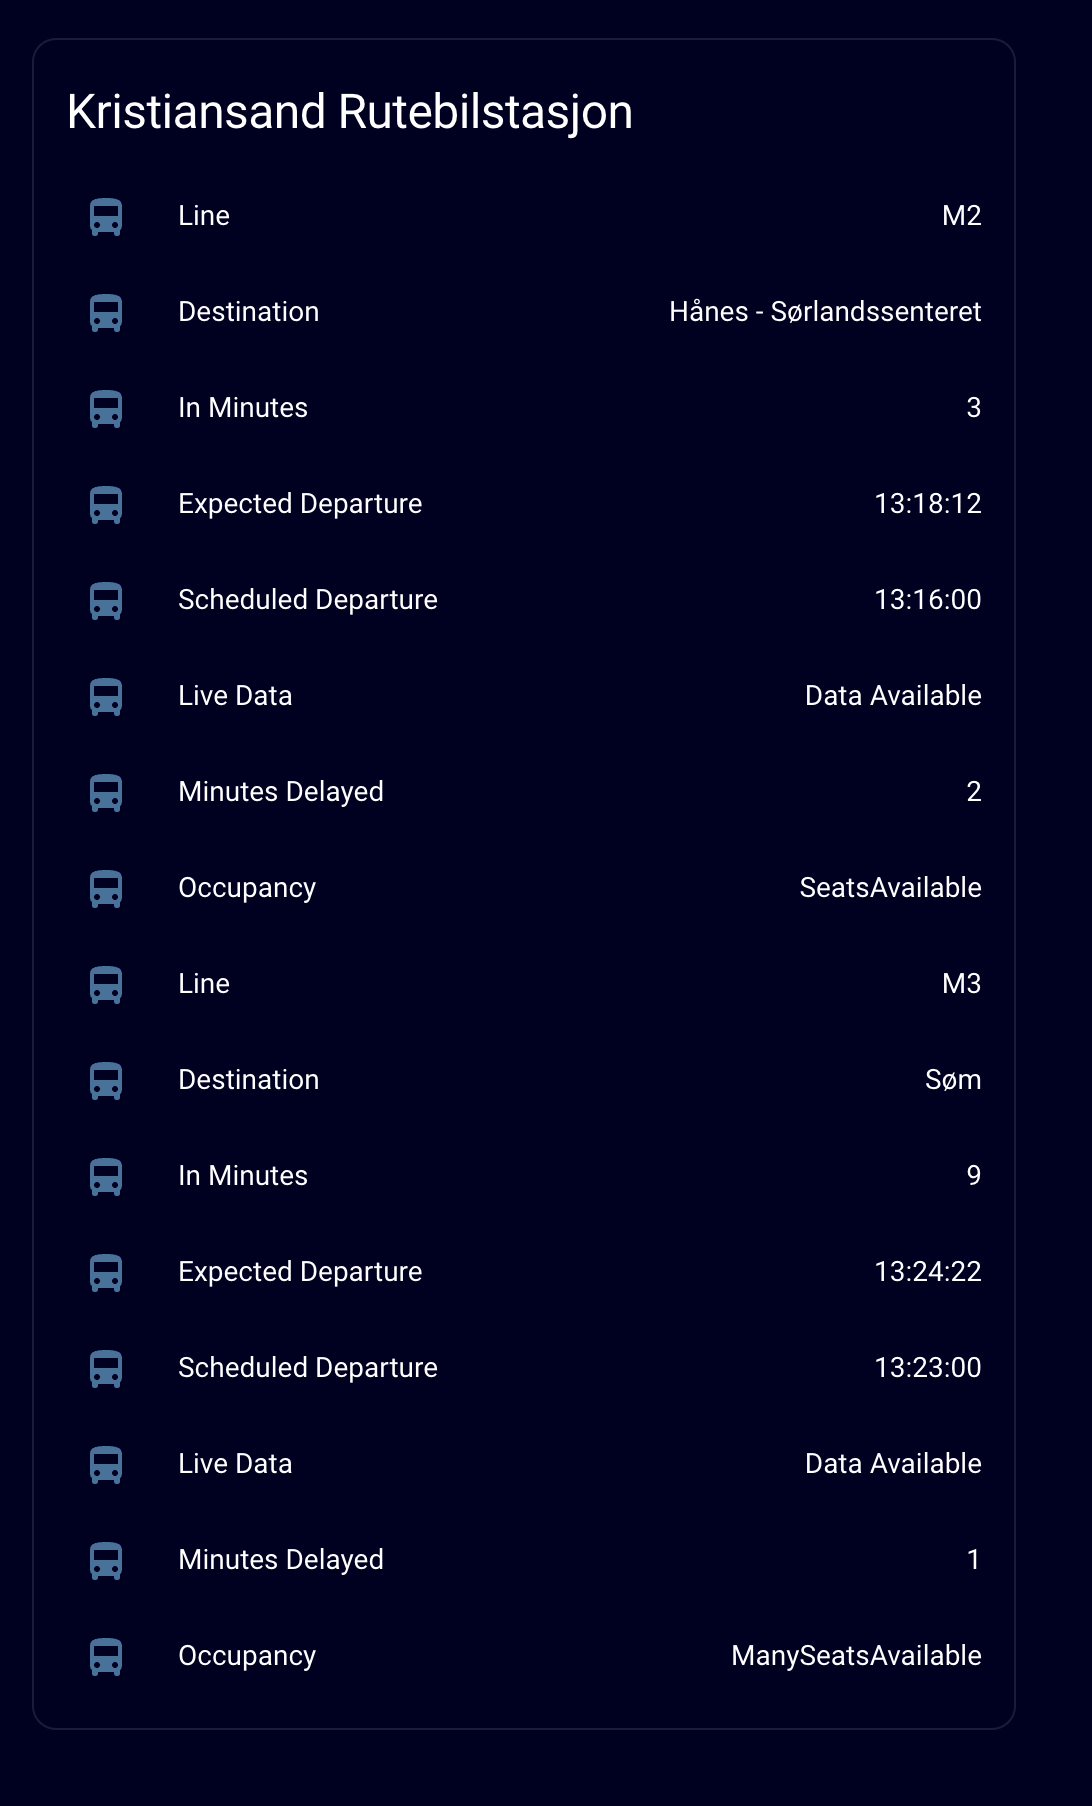
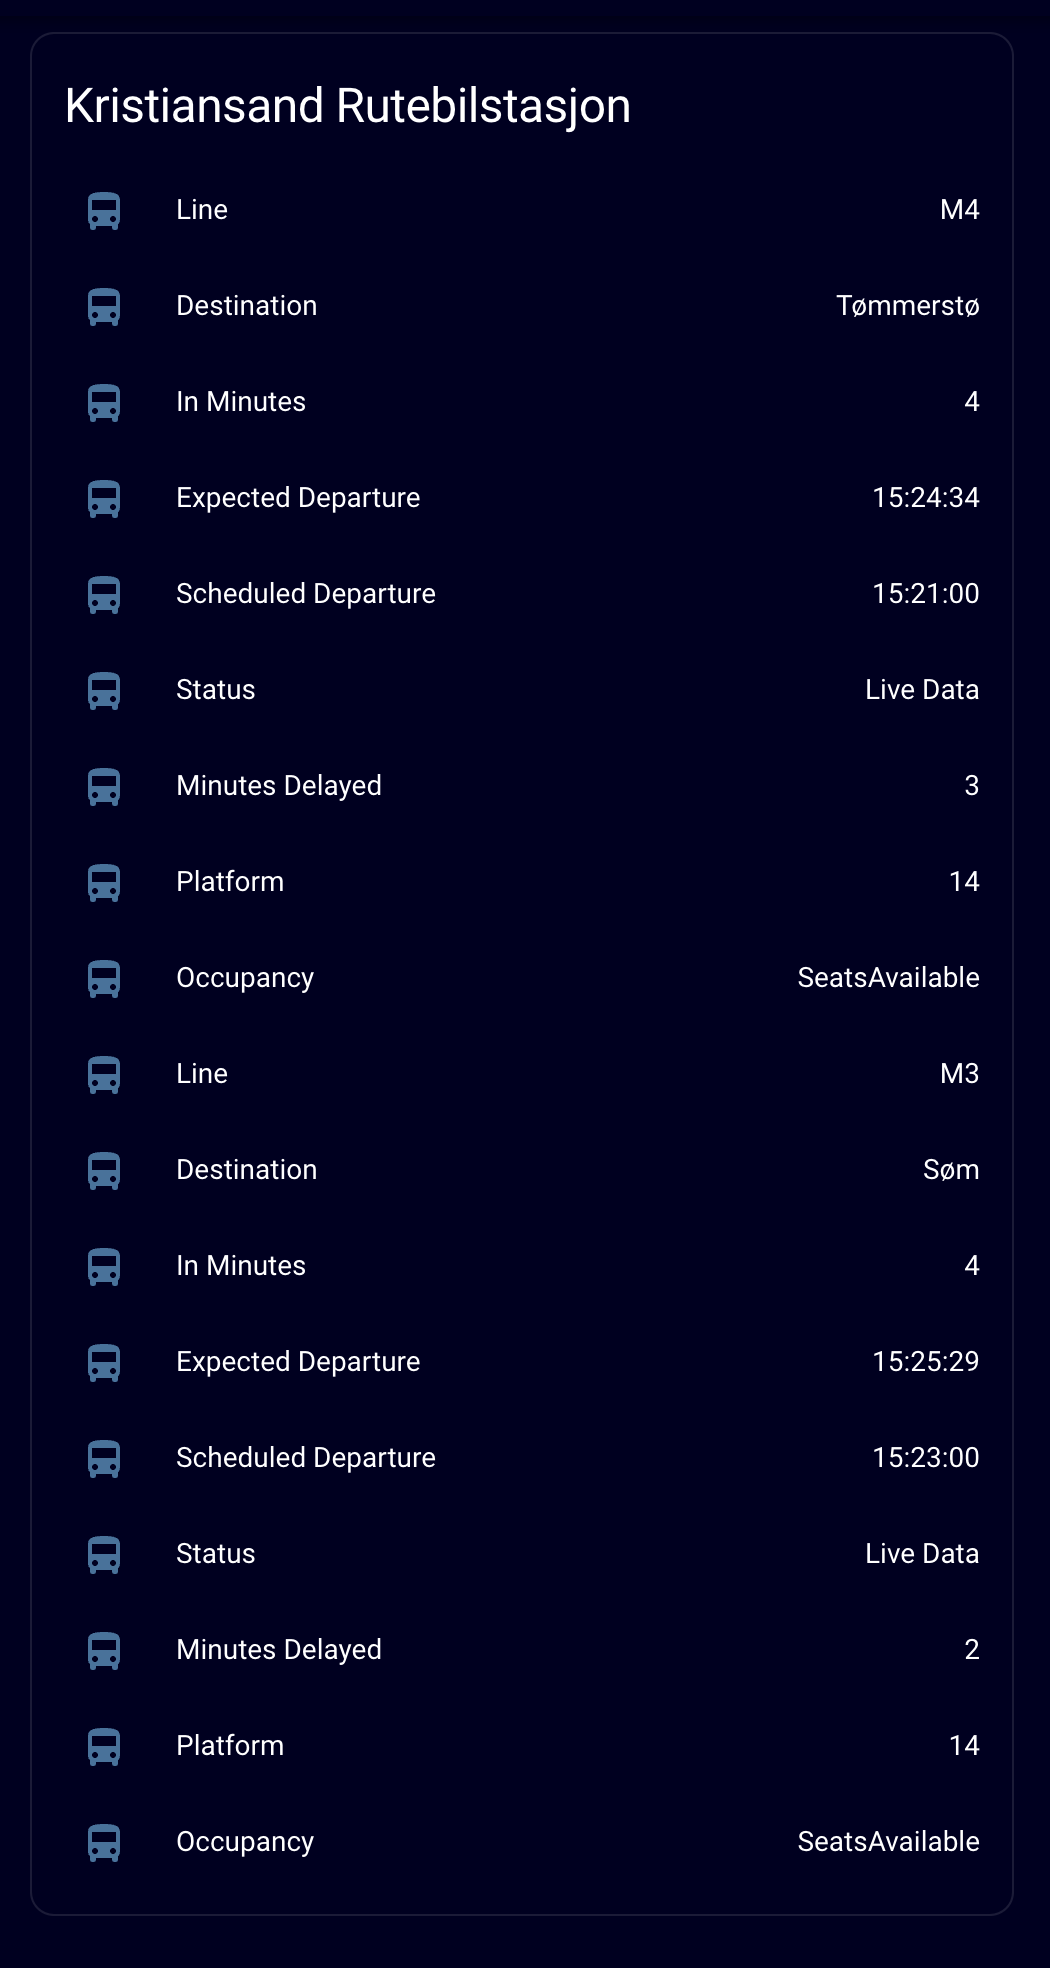
Added support for cancelled and congestion
Replaced livedata with status with the option for Cancelled, Congestion, Live Data, and Timetable.

diff --git a/README.md b/README.md
@@ -64,11 +64,20 @@ You will get an XML file with the following data (relevant parts)
 - `l` Line number
 - `nd` Route/destination
 - `c` Bus company name
+- `cancellation` value indicating the departure is cancelled
 - `d2` Expected departure time
 - `a2` Expected arrival time
 - `monitored` value indicating the departure is being monitored in real time
+- `incongestion` value indicating the departure is being in congestion
 - `lineref` ID of route
 - `occupancy` Indicator of seats available (ManySeatsAvailable, SeatsAvailable, StandingAvailable, Full)
+
+`fromnotes` element inside the `i` element contains additional notes about the departure
+
+`i` element (inside `fromnotes`) for each note for that departure with relevant data as attributes
+- `d` Description (or the note itself)
+- `st` Type e.g. `situation`
+- `sv` Severity e.g. `normal`
 
 See [configuration.yaml](configuration.yaml) for example config
 
@@ -81,9 +90,10 @@ The example gives info for the next `i[0]` and following `i[1]` departure
 - `akt_rutebil_next_scheduled_departure_raw` Scheduled departure in ISO 8601 format
 - `akt_rutebil_next_departure` Expected departure in format %H:%M:%S
 - `akt_rutebil_next_scheduled_departure` Scheduled departure in format %H:%M:%S
-- `akt_rutebil_next_livedata` If live data (expected departure is available) Data Available or No Data
+- `akt_rutebil_next_status` Status of the departure/live data `Cancelled`, `Congestion`, `Live Data`, or `Timetable` (if nothing else is available)
 - `akt_rutebil_next_departure_min` Number of minutes until expected departure (or scheduled departure if expected departure is not available)
 - `akt_rutebil_next_delays_min` Number of minutes delayed (0 if expected departure is not available)
+- `akt_rutebil_next_platform` Platform number or letter
 - `akt_rutebil_next_occupancy` Indicator of seats available (ManySeatsAvailable, SeatsAvailable, StandingAvailable, Full)
 - `akt_rutebil_following_xxx` same as above but for the following departure `i[1]` instead of `i[0]`
 
